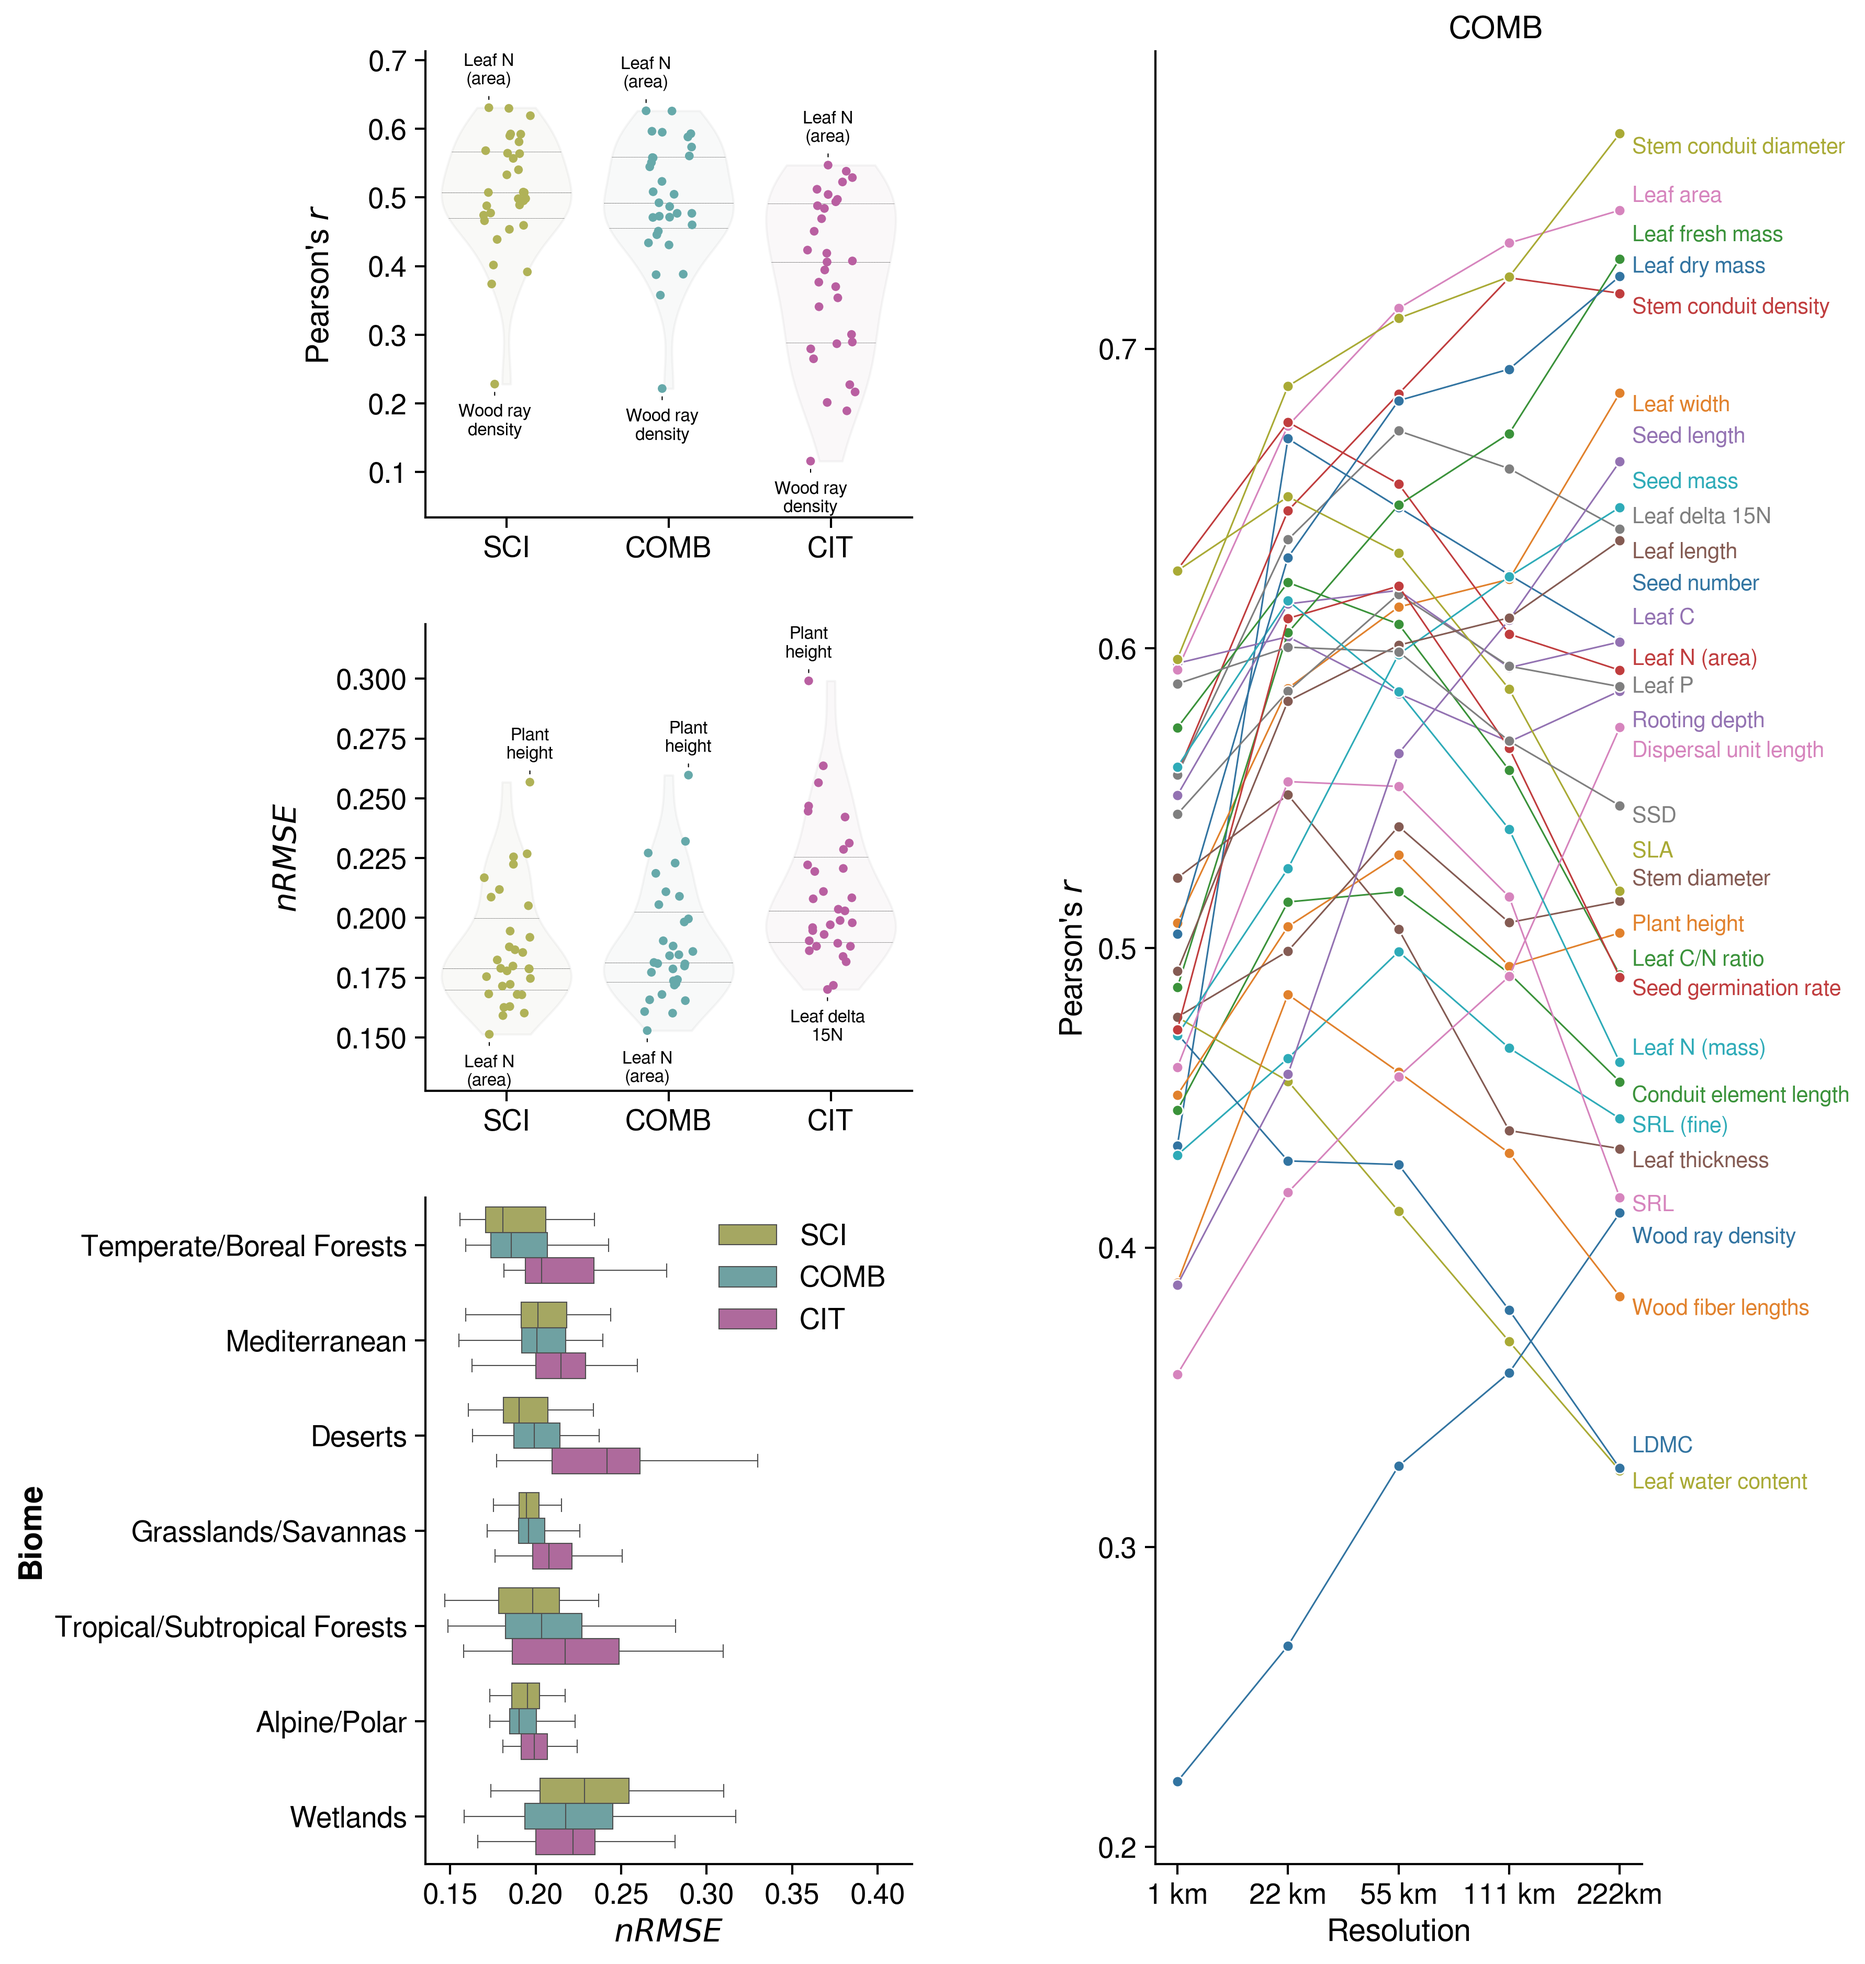
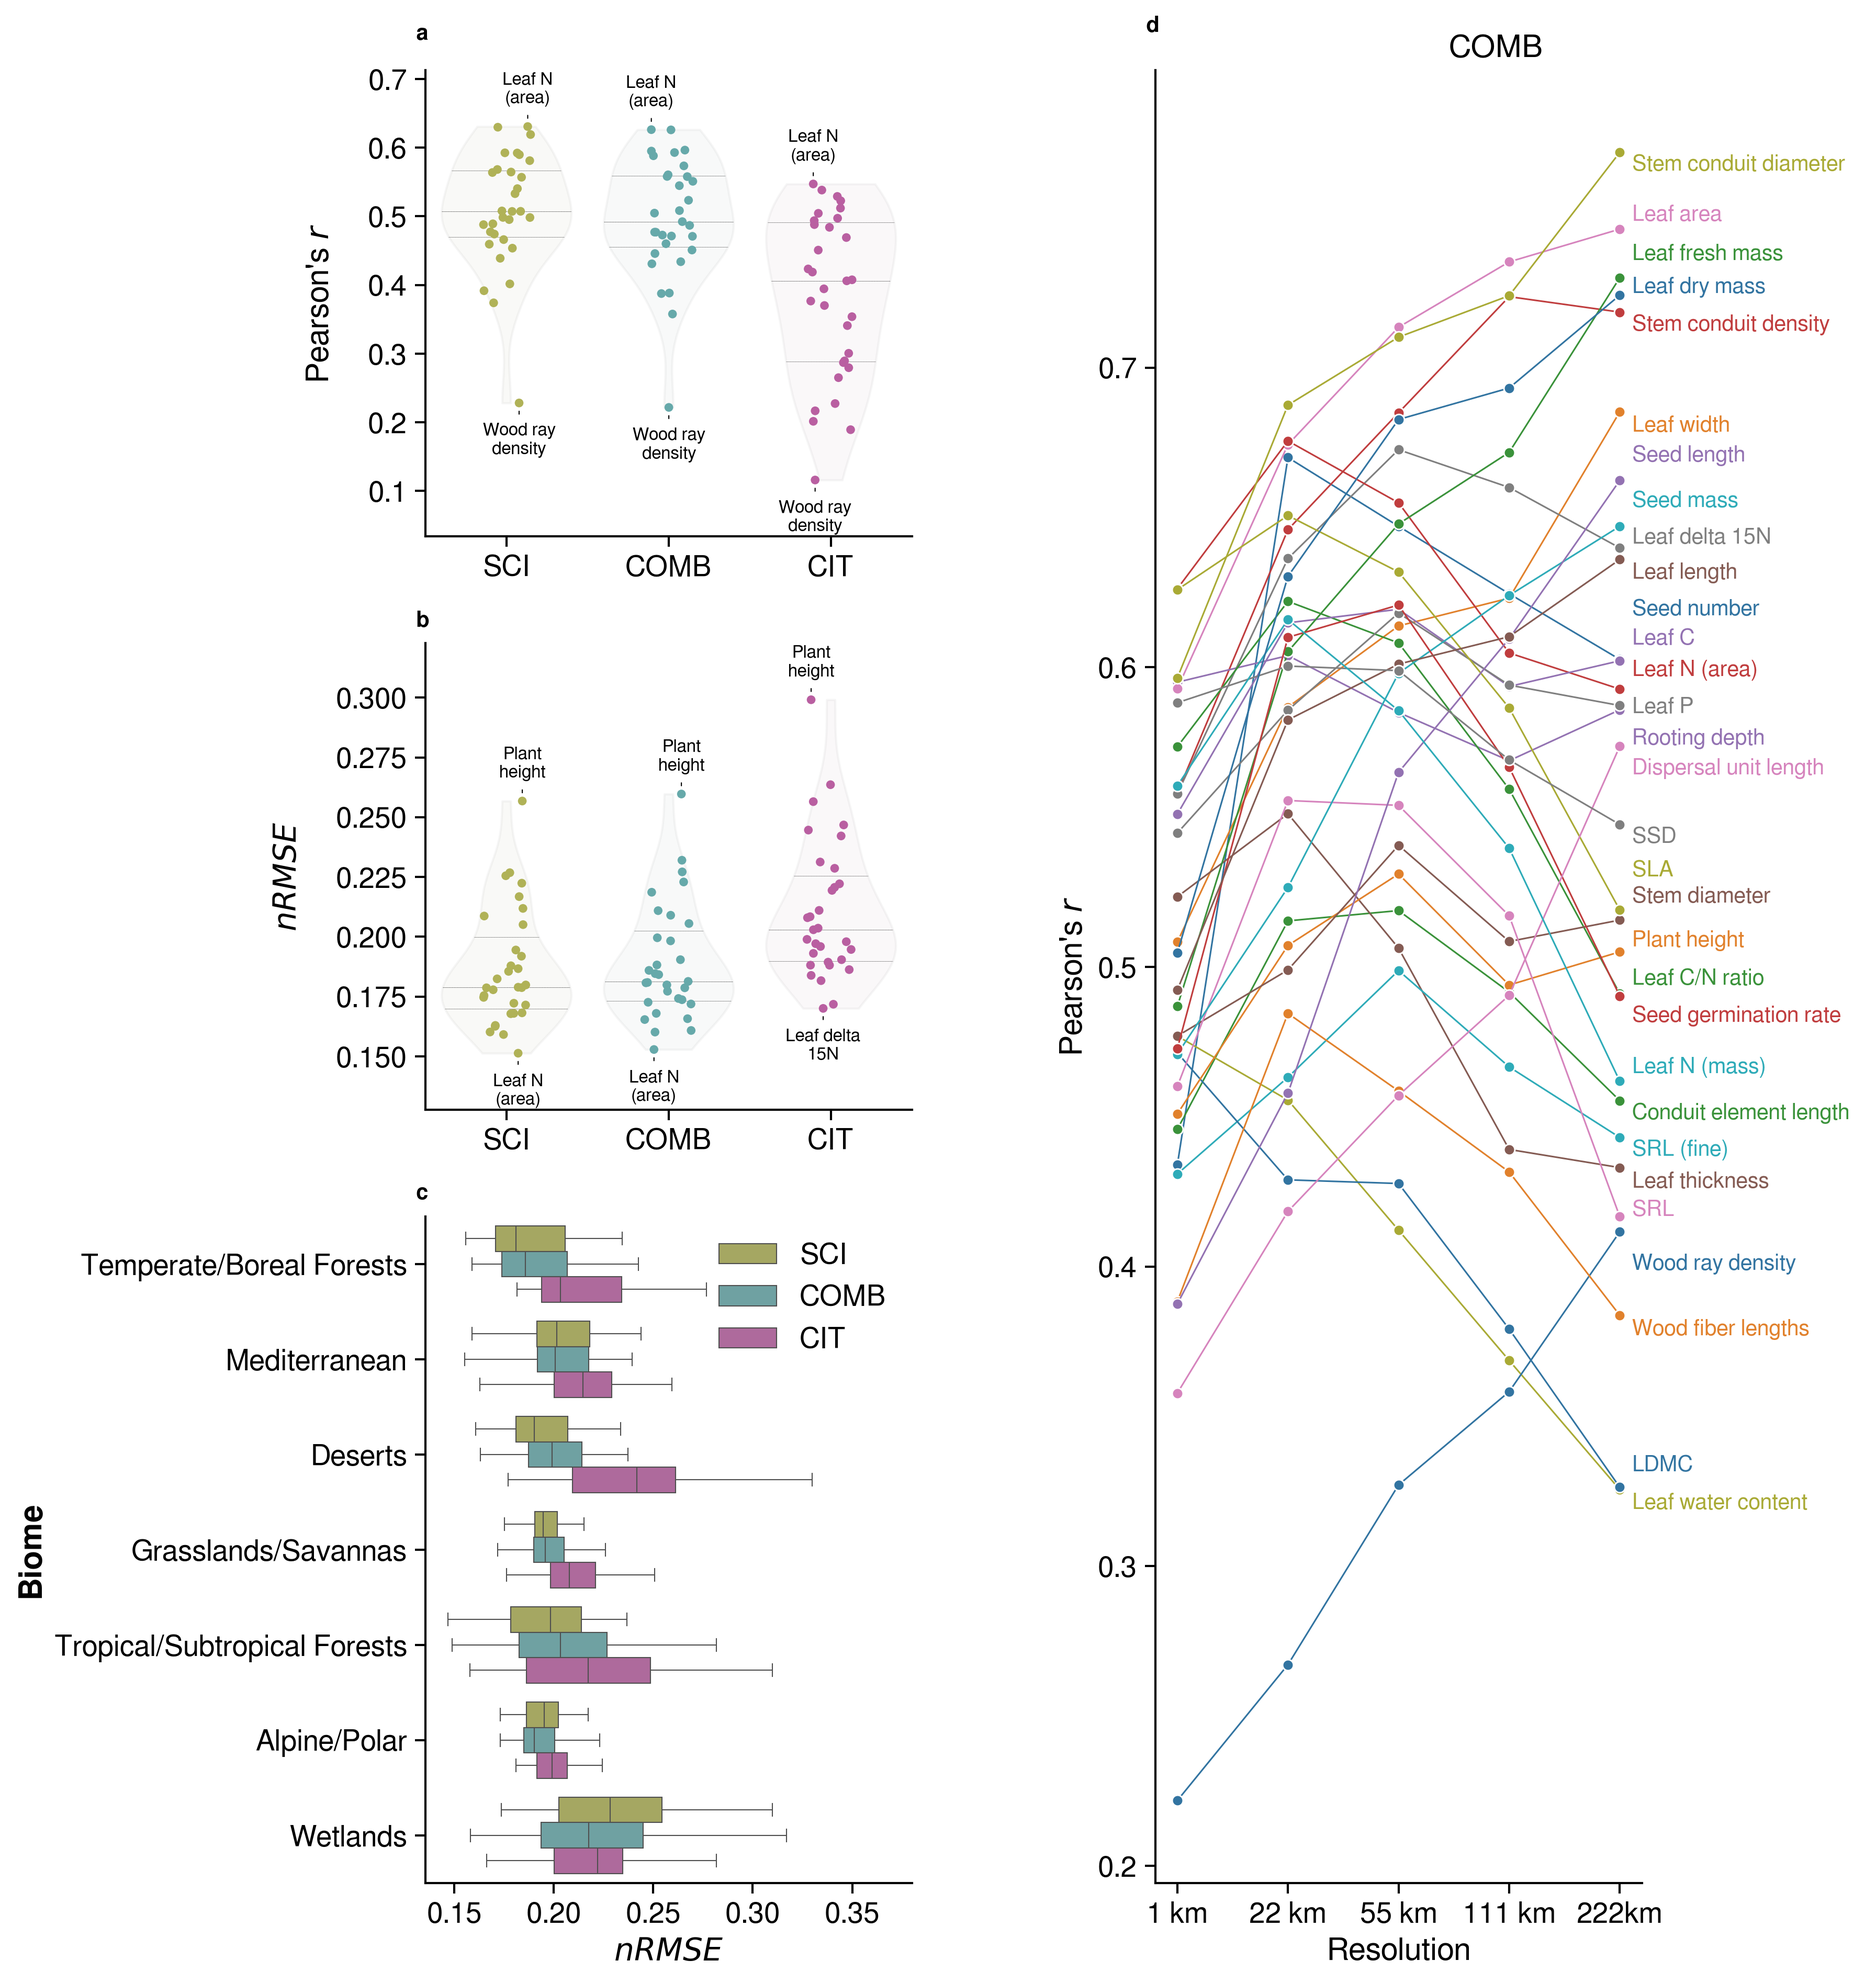
add subplot letters to model performance figure

diff --git a/src/visualization/figures/model_performance.py b/src/visualization/figures/model_performance.py
@@ -4,6 +4,7 @@ from typing import Any
 import numpy as np
 import pandas as pd
 import seaborn as sns
+from cartopy.mpl.geoaxes import GeoAxes
 from matplotlib import pyplot as plt
 from matplotlib.axes import Axes
 from matplotlib.figure import Figure
@@ -121,7 +122,56 @@ def build_figure(all_res: pd.DataFrame, biome_res: pd.DataFrame) -> Figure:
         trait_set="COMB",
     )
 
+    letter_size = 10
+    x_offset_left_col = -0.02
+    y_offset_left_col = 1.10
+
+    x_offset_right_col = -0.02
+    y_offset_right_col = 1.03
+    add_subplot_letter(
+        ax=axes[0][0],
+        letter_size=letter_size,
+        x=x_offset_left_col,
+        y=y_offset_left_col,
+        letter="a",
+    )
+    add_subplot_letter(
+        ax=axes[0][1],
+        letter_size=letter_size,
+        x=x_offset_left_col,
+        y=y_offset_left_col - 0.03,
+        letter="b",
+    )
+    add_subplot_letter(
+        ax=axes[0][2],
+        letter_size=letter_size,
+        x=x_offset_left_col,
+        y=y_offset_left_col - 0.05,
+        letter="c",
+    )
+    add_subplot_letter(
+        ax=axes[1],
+        letter_size=letter_size,
+        x=x_offset_right_col,
+        y=y_offset_right_col,
+        letter="d",
+    )
+
     return fig
+
+
+def add_subplot_letter(
+    ax: Axes | GeoAxes, letter_size: int, x: float, y: float, letter: str
+):
+    ax.text(
+        x,
+        y,
+        letter,
+        transform=ax.transAxes,
+        fontsize=letter_size,
+        verticalalignment="top",
+        fontweight="bold",
+    )
 
 
 def scaffold_figure(dpi: int = 100) -> tuple[Figure, tuple[list[Axes], Axes]]:
@@ -176,7 +226,7 @@ def nrmse_by_biome(df: pd.DataFrame, ax: Axes) -> Axes:
         metric_col="norm_root_mean_squared_error",
         metric_label="$nRMSE$",
         order=TRAIT_SET_ORDER,
-        max_x=0.42,
+        max_x=0.38,
     )
 
 
